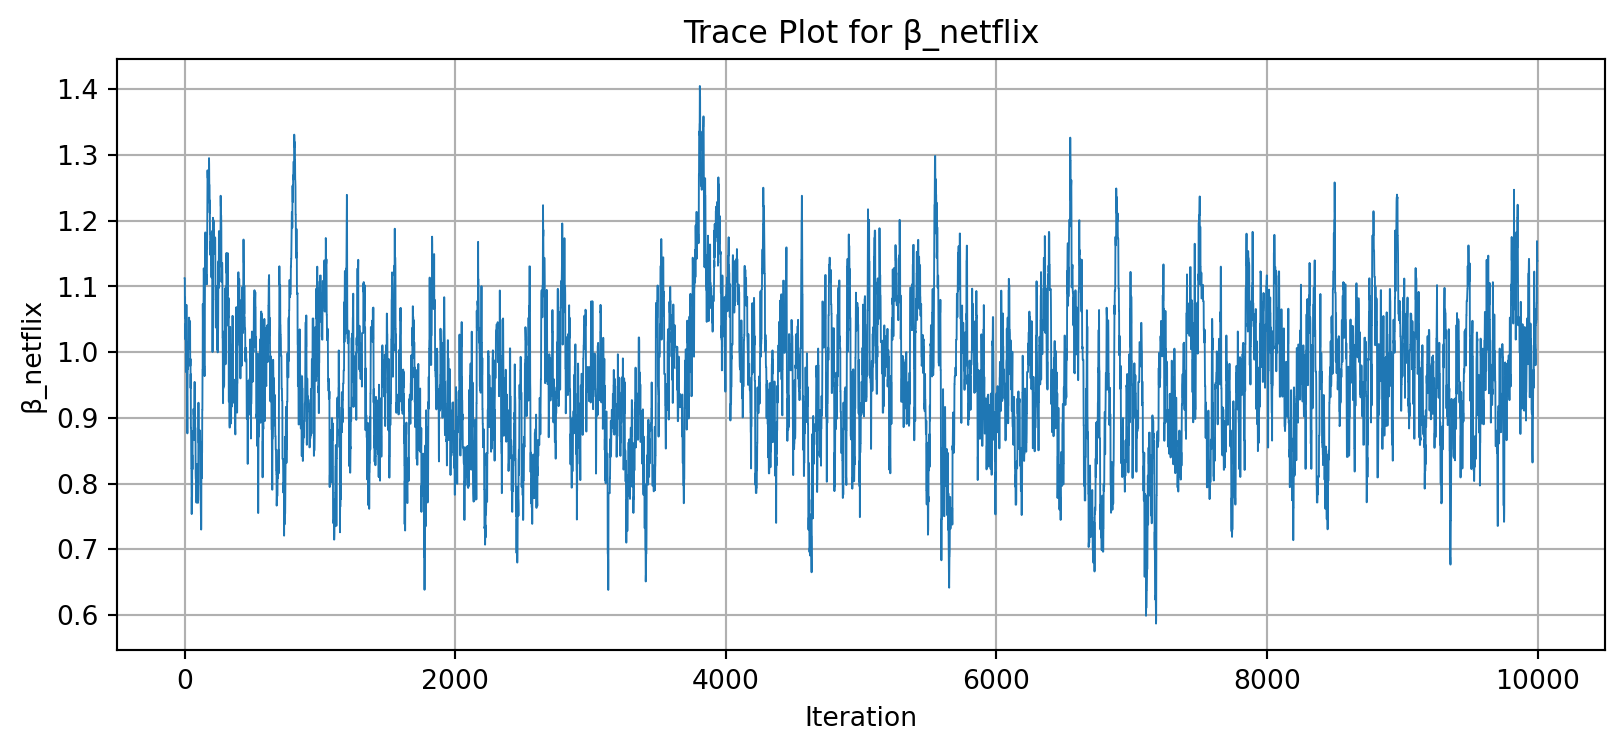
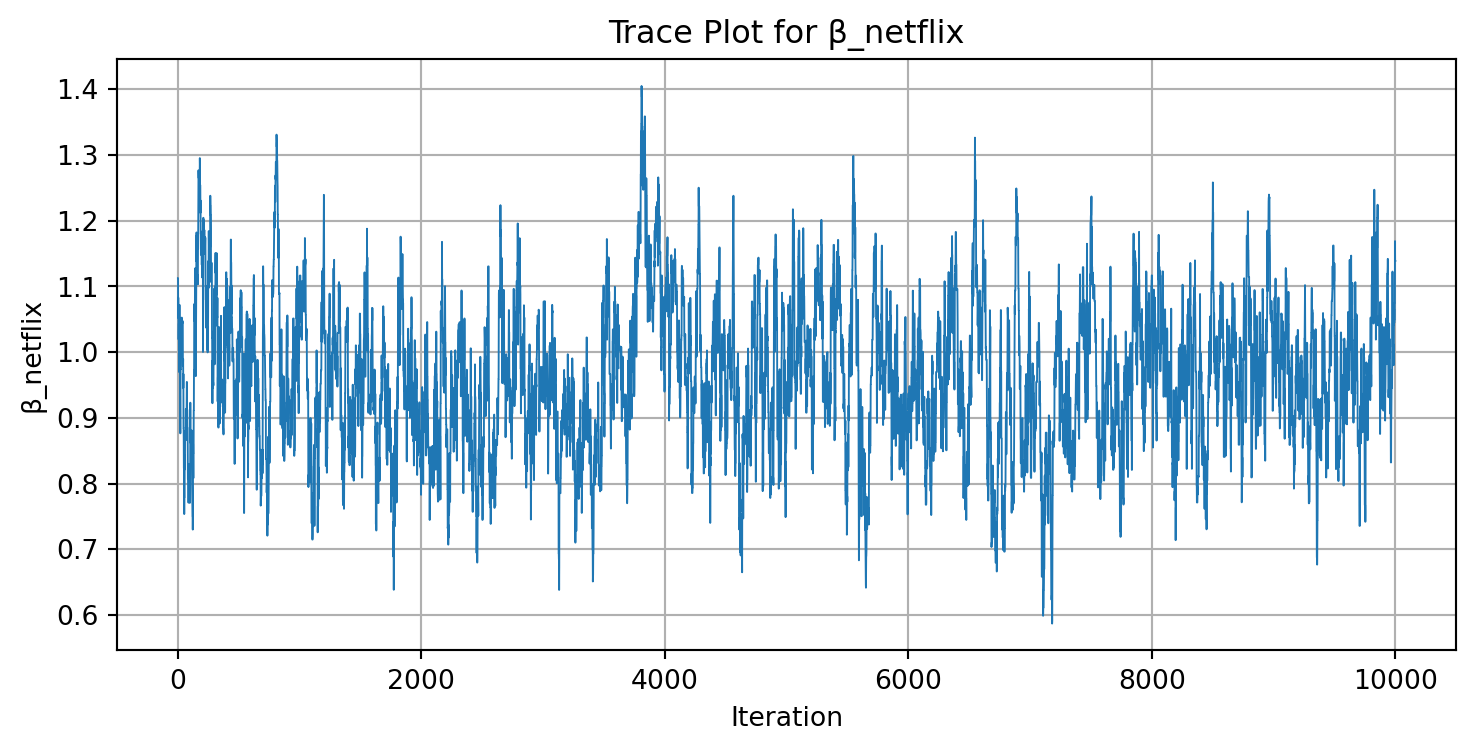
HW3_latest

diff --git a/docs/blog/project3/hw3_questions.html b/docs/blog/project3/hw3_questions.html
@@ -276,7 +276,7 @@ Note
 </div>
 <div id="callout-1" class="callout-1-contents callout-collapse collapse">
 <div class="callout-body-container callout-body">
-<div id="52353a8f" class="cell" data-execution_count="1">
+<div id="35c09d0d" class="cell" data-execution_count="1">
 <div class="sourceCode cell-code" id="cb1"><pre class="sourceCode python code-with-copy"><code class="sourceCode python"><span id="cb1-1"><a href="#cb1-1" aria-hidden="true" tabindex="-1"></a><span class="im">import</span> pandas <span class="im">as</span> pd</span>
 <span id="cb1-2"><a href="#cb1-2" aria-hidden="true" tabindex="-1"></a><span class="im">import</span> numpy <span class="im">as</span> np</span>
 <span id="cb1-3"><a href="#cb1-3" aria-hidden="true" tabindex="-1"></a></span>
@@ -414,7 +414,7 @@ Note
 <section id="preparing-the-data-for-estimation" class="level2">
 <h2 class="anchored" data-anchor-id="preparing-the-data-for-estimation">3. Preparing the Data for Estimation</h2>
 <p>The “hard part” of the MNL likelihood function is organizing the data, as we need to keep track of 3 dimensions (consumer <span class="math inline">\(i\)</span>, covariate <span class="math inline">\(k\)</span>, and product <span class="math inline">\(j\)</span>) instead of the typical 2 dimensions for cross-sectional regression models (consumer <span class="math inline">\(i\)</span> and covariate <span class="math inline">\(k\)</span>). The fact that each task for each respondent has the same number of alternatives (3) helps. In addition, we need to convert the categorical variables for brand and ads into binary variables.</p>
-<div id="7dae2908" class="cell" data-execution_count="2">
+<div id="3cf90075" class="cell" data-execution_count="2">
 <div class="sourceCode cell-code" id="cb2"><pre class="sourceCode python code-with-copy"><code class="sourceCode python"><span id="cb2-1"><a href="#cb2-1" aria-hidden="true" tabindex="-1"></a><span class="im">import</span> pandas <span class="im">as</span> pd</span>
 <span id="cb2-2"><a href="#cb2-2" aria-hidden="true" tabindex="-1"></a><span class="im">import</span> numpy <span class="im">as</span> np</span>
 <span id="cb2-3"><a href="#cb2-3" aria-hidden="true" tabindex="-1"></a></span>
@@ -442,7 +442,7 @@ Note
 </section>
 <section id="estimation-via-maximum-likelihood" class="level2">
 <h2 class="anchored" data-anchor-id="estimation-via-maximum-likelihood">4. Estimation via Maximum Likelihood</h2>
-<div id="d592bb64" class="cell" data-execution_count="3">
+<div id="dd6084ce" class="cell" data-execution_count="3">
 <div class="sourceCode cell-code" id="cb3"><pre class="sourceCode python code-with-copy"><code class="sourceCode python"><span id="cb3-1"><a href="#cb3-1" aria-hidden="true" tabindex="-1"></a><span class="im">from</span> scipy.special <span class="im">import</span> logsumexp</span>
 <span id="cb3-2"><a href="#cb3-2" aria-hidden="true" tabindex="-1"></a></span>
 <span id="cb3-3"><a href="#cb3-3" aria-hidden="true" tabindex="-1"></a><span class="kw">def</span> mnl_log_likelihood(beta, X, y, group):</span>
@@ -459,7 +459,7 @@ Note
 <span id="cb3-14"><a href="#cb3-14" aria-hidden="true" tabindex="-1"></a></span>
 <span id="cb3-15"><a href="#cb3-15" aria-hidden="true" tabindex="-1"></a>    <span class="cf">return</span> loglik</span></code><button title="Copy to Clipboard" class="code-copy-button"><i class="bi"></i></button></pre></div>
 </div>
-<div id="53cf42e6" class="cell" data-execution_count="4">
+<div id="ebfbcb71" class="cell" data-execution_count="4">
 <div class="sourceCode cell-code" id="cb4"><pre class="sourceCode python code-with-copy"><code class="sourceCode python"><span id="cb4-1"><a href="#cb4-1" aria-hidden="true" tabindex="-1"></a><span class="im">from</span> scipy.optimize <span class="im">import</span> minimize</span>
 <span id="cb4-2"><a href="#cb4-2" aria-hidden="true" tabindex="-1"></a><span class="im">from</span> numpy.linalg <span class="im">import</span> inv</span>
 <span id="cb4-3"><a href="#cb4-3" aria-hidden="true" tabindex="-1"></a><span class="im">from</span> scipy.stats <span class="im">import</span> norm</span>
@@ -596,7 +596,7 @@ U_{ij} = \beta_{\text{netflix}} \cdot \text{Netflix}_{j} + \beta_{\text{prime}} 
 </section>
 <section id="estimation-via-bayesian-methods" class="level2">
 <h2 class="anchored" data-anchor-id="estimation-via-bayesian-methods">5. Estimation via Bayesian Methods</h2>
-<div id="48d2ddab" class="cell" data-execution_count="5">
+<div id="97e31dd0" class="cell" data-execution_count="5">
 <div class="sourceCode cell-code" id="cb5"><pre class="sourceCode python code-with-copy"><code class="sourceCode python"><span id="cb5-1"><a href="#cb5-1" aria-hidden="true" tabindex="-1"></a><span class="im">import</span> numpy <span class="im">as</span> np</span>
 <span id="cb5-2"><a href="#cb5-2" aria-hidden="true" tabindex="-1"></a></span>
 <span id="cb5-3"><a href="#cb5-3" aria-hidden="true" tabindex="-1"></a><span class="co"># Define log-prior for each beta parameter</span></span>
@@ -643,7 +643,7 @@ U_{ij} = \beta_{\text{netflix}} \cdot \text{Netflix}_{j} + \beta_{\text{prime}} 
 <span id="cb5-44"><a href="#cb5-44" aria-hidden="true" tabindex="-1"></a><span class="co"># Discard burn-in</span></span>
 <span id="cb5-45"><a href="#cb5-45" aria-hidden="true" tabindex="-1"></a>posterior_samples <span class="op">=</span> samples[burn_in:]</span></code><button title="Copy to Clipboard" class="code-copy-button"><i class="bi"></i></button></pre></div>
 </div>
-<div id="5849d860" class="cell" data-execution_count="6">
+<div id="2bf8c1f2" class="cell" data-execution_count="6">
 <div class="sourceCode cell-code" id="cb6"><pre class="sourceCode python code-with-copy"><code class="sourceCode python"><span id="cb6-1"><a href="#cb6-1" aria-hidden="true" tabindex="-1"></a><span class="im">import</span> matplotlib.pyplot <span class="im">as</span> plt</span>
 <span id="cb6-2"><a href="#cb6-2" aria-hidden="true" tabindex="-1"></a><span class="im">import</span> seaborn <span class="im">as</span> sns</span>
 <span id="cb6-3"><a href="#cb6-3" aria-hidden="true" tabindex="-1"></a></span>
@@ -651,7 +651,7 @@ U_{ij} = \beta_{\text{netflix}} \cdot \text{Netflix}_{j} + \beta_{\text{prime}} 
 <span id="cb6-5"><a href="#cb6-5" aria-hidden="true" tabindex="-1"></a>beta_netflix_samples <span class="op">=</span> posterior_samples[:, <span class="dv">0</span>]</span>
 <span id="cb6-6"><a href="#cb6-6" aria-hidden="true" tabindex="-1"></a></span>
 <span id="cb6-7"><a href="#cb6-7" aria-hidden="true" tabindex="-1"></a><span class="co"># Trace plot</span></span>
-<span id="cb6-8"><a href="#cb6-8" aria-hidden="true" tabindex="-1"></a>plt.figure(figsize<span class="op">=</span>(<span class="dv">10</span>, <span class="dv">4</span>))</span>
+<span id="cb6-8"><a href="#cb6-8" aria-hidden="true" tabindex="-1"></a>plt.figure(figsize<span class="op">=</span>(<span class="dv">9</span>, <span class="dv">4</span>))</span>
 <span id="cb6-9"><a href="#cb6-9" aria-hidden="true" tabindex="-1"></a>plt.plot(beta_netflix_samples, linewidth<span class="op">=</span><span class="fl">0.7</span>)</span>
 <span id="cb6-10"><a href="#cb6-10" aria-hidden="true" tabindex="-1"></a>plt.title(<span class="st">"Trace Plot for β_netflix"</span>)</span>
 <span id="cb6-11"><a href="#cb6-11" aria-hidden="true" tabindex="-1"></a>plt.xlabel(<span class="st">"Iteration"</span>)</span>
@@ -670,7 +670,7 @@ U_{ij} = \beta_{\text{netflix}} \cdot \text{Netflix}_{j} + \beta_{\text{prime}} 
 <div class="cell-output cell-output-display">
 <div>
 <figure class="figure">
-<p><img src="hw3_questions_files/figure-html/cell-7-output-1.png" width="812" height="376" class="figure-img"></p>
+<p><img src="hw3_questions_files/figure-html/cell-7-output-1.png" width="738" height="376" class="figure-img"></p>
 </figure>
 </div>
 </div>
@@ -688,7 +688,7 @@ U_{ij} = \beta_{\text{netflix}} \cdot \text{Netflix}_{j} + \beta_{\text{prime}} 
 <p>The <strong>trace plot</strong> of the sampled values over 10,000 iterations shows stable oscillation around a consistent mean, suggesting that the Markov chain has mixed well and reached stationarity. There are no obvious trends or divergence issues, indicating good convergence.</p>
 <p>The <strong>posterior histogram</strong> is approximately normal and centered around <strong>1.0</strong>, which matches the true value used in the data-generating process. This further confirms that our Bayesian sampler is accurately recovering the parameter.</p>
 <p>Together, these plots provide strong evidence that the MCMC algorithm has successfully estimated the posterior distribution for β_netflix.</p>
-<div id="70a194e9" class="cell" data-execution_count="7">
+<div id="7b36bf26" class="cell" data-execution_count="7">
 <div class="sourceCode cell-code" id="cb7"><pre class="sourceCode python code-with-copy"><code class="sourceCode python"><span id="cb7-1"><a href="#cb7-1" aria-hidden="true" tabindex="-1"></a><span class="im">import</span> pandas <span class="im">as</span> pd</span>
 <span id="cb7-2"><a href="#cb7-2" aria-hidden="true" tabindex="-1"></a><span class="im">import</span> numpy <span class="im">as</span> np</span>
 <span id="cb7-3"><a href="#cb7-3" aria-hidden="true" tabindex="-1"></a></span>

diff --git a/docs/blog.html b/docs/blog.html
@@ -203,7 +203,7 @@ window.Quarto = {
 <div class="quarto-listing quarto-listing-container-grid" id="listing-listing">
 <div class="list grid quarto-listing-cols-3">
 
-<div class="g-col-1" data-index="0" data-listing-date-sort="1748156400000" data-listing-file-modified-sort="1748200028150" data-listing-date-modified-sort="NaN" data-listing-reading-time-sort="14" data-listing-word-count-sort="2696">
+<div class="g-col-1" data-index="0" data-listing-date-sort="1748156400000" data-listing-file-modified-sort="1748200771680" data-listing-date-modified-sort="NaN" data-listing-reading-time-sort="14" data-listing-word-count-sort="2696">
 <a href="./blog/project3/hw3_questions.html" class="quarto-grid-link">
 <div class="quarto-grid-item card h-100 card-left">
 
